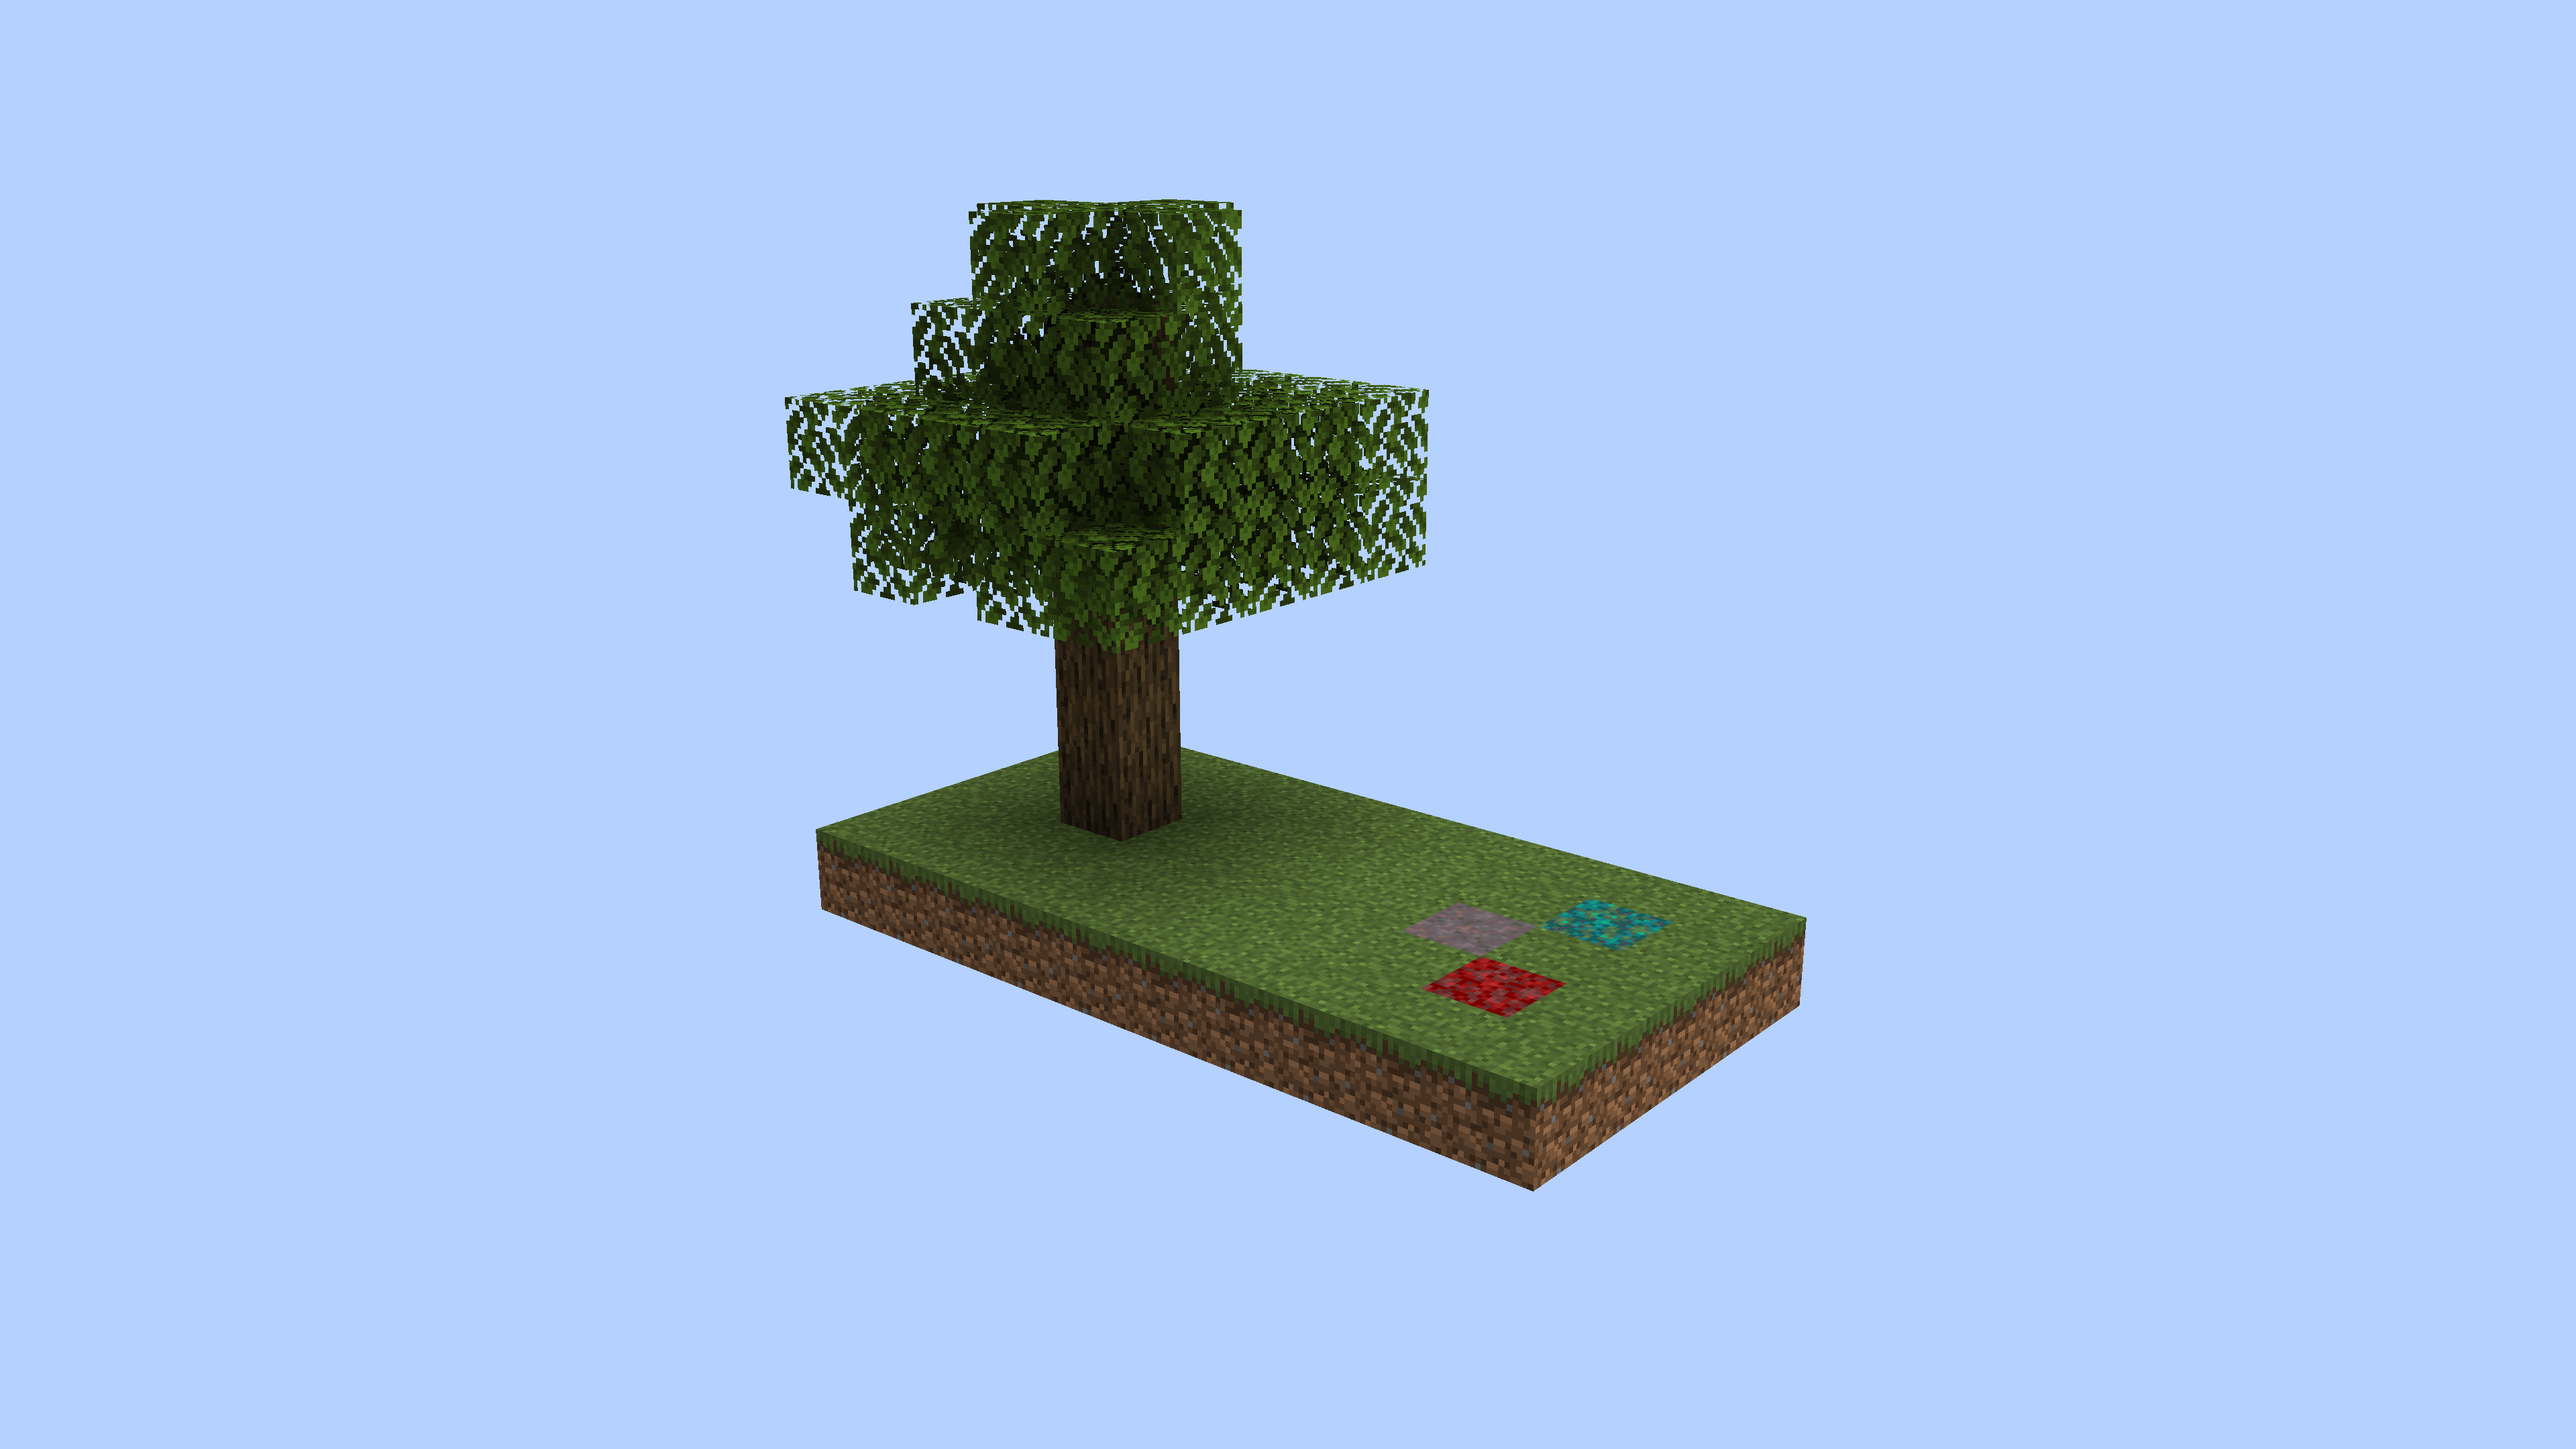
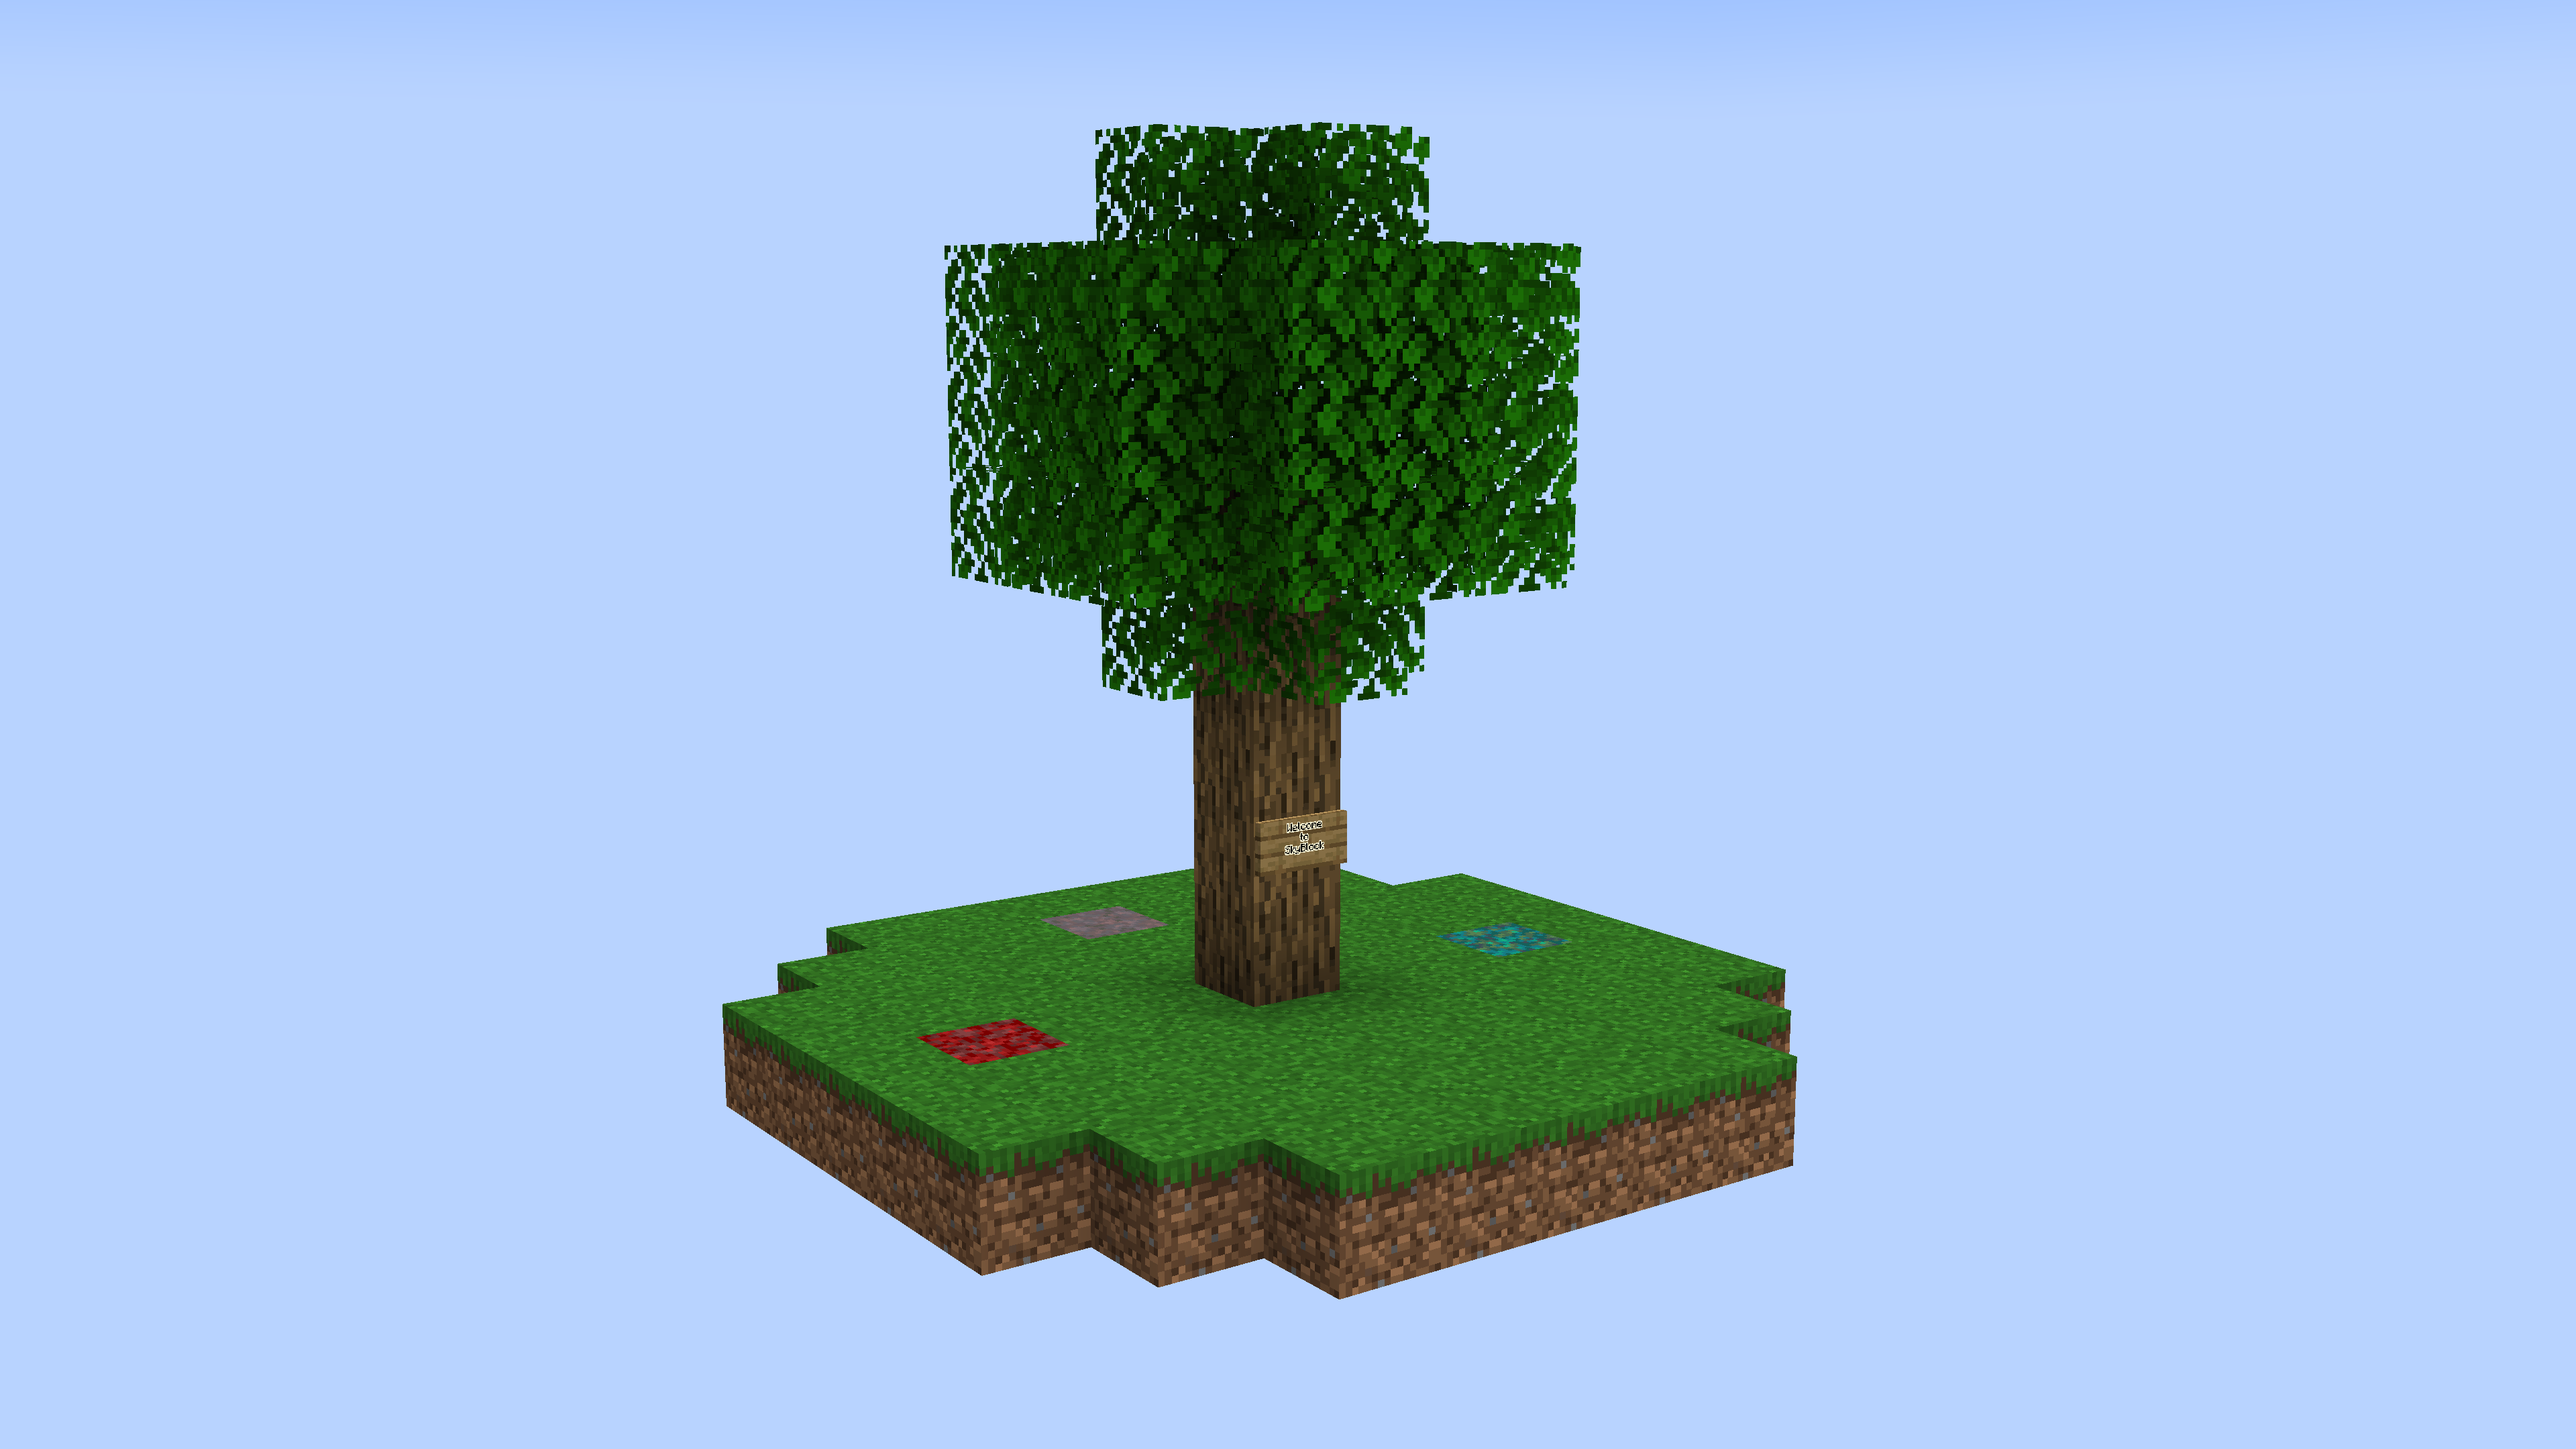
Change spawn platform shape and generation; Fix structure placement

Changed region(s): [[0.2812, 0.062, 0.7188, 0.8995]]

diff --git a/src/main/java/com/jsorrell/skyblock/gen/SkyBlockChunkGenerator.java b/src/main/java/com/jsorrell/skyblock/gen/SkyBlockChunkGenerator.java
@@ -6,10 +6,6 @@ import com.mojang.serialization.Codec;
 import com.mojang.serialization.codecs.RecordCodecBuilder;
 import it.unimi.dsi.fastutil.ints.IntArraySet;
 import it.unimi.dsi.fastutil.objects.ObjectArraySet;
-import net.minecraft.block.Block;
-import net.minecraft.block.BlockState;
-import net.minecraft.block.Blocks;
-import net.minecraft.block.LeavesBlock;
 import net.minecraft.structure.PoolStructurePiece;
 import net.minecraft.structure.StructurePiece;
 import net.minecraft.structure.StructurePieceType;
@@ -27,7 +23,9 @@ import net.minecraft.util.math.noise.DoublePerlinNoiseSampler;
 import net.minecraft.util.registry.Registry;
 import net.minecraft.util.registry.RegistryEntry;
 import net.minecraft.util.registry.RegistryEntryList;
-import net.minecraft.world.*;
+import net.minecraft.world.ChunkRegion;
+import net.minecraft.world.HeightLimitView;
+import net.minecraft.world.StructureWorldAccess;
 import net.minecraft.world.biome.Biome;
 import net.minecraft.world.biome.source.BiomeAccess;
 import net.minecraft.world.biome.source.BiomeSource;
@@ -106,28 +104,6 @@ public class SkyBlockChunkGenerator extends NoiseChunkGenerator {
 
   @Override
   public void buildSurface(ChunkRegion region, StructureAccessor structures, Chunk chunk) {
-    if (region.getDimension().isNatural()) {
-      BlockPos spawn =
-        new BlockPos(
-          region.getLevelProperties().getSpawnX(),
-          region.getLevelProperties().getSpawnY(),
-          region.getLevelProperties().getSpawnZ());
-      if (chunk.getPos().getStartX() <= spawn.getX()
-        && spawn.getX() <= chunk.getPos().getEndX()
-        && chunk.getPos().getStartZ() <= spawn.getZ()
-        && spawn.getZ() <= chunk.getPos().getEndZ()) {
-        generateSpawnPlatform(
-          region,
-          spawn,
-          new BlockBox(
-            chunk.getPos().getStartX(),
-            chunk.getBottomY(),
-            chunk.getPos().getStartZ(),
-            chunk.getPos().getStartX() + 15,
-            chunk.getTopY(),
-            chunk.getPos().getStartZ() + 15));
-      }
-    }
   }
 
   @Override
@@ -270,62 +246,5 @@ public class SkyBlockChunkGenerator extends NoiseChunkGenerator {
 
   @Override
   public void populateEntities(ChunkRegion region) {
-  }
-
-  protected static void placeBlock(
-    WorldAccess world,
-    BlockState block,
-    BlockPos referencePos,
-    int x,
-    int y,
-    int z,
-    BlockBox box) {
-    BlockPos blockPos =
-      new BlockPos(referencePos.getX() + x, referencePos.getY() + y, referencePos.getZ() + z);
-    if (box.contains(blockPos)) {
-      world.setBlockState(blockPos, block, Block.NOTIFY_LISTENERS);
-    }
-  }
-
-  protected static void fillBlocks(
-    WorldAccess world,
-    BlockState block,
-    BlockPos referencePos,
-    int startX,
-    int startY,
-    int startZ,
-    int endX,
-    int endY,
-    int endZ,
-    BlockBox box) {
-    for (int x = startX; x <= endX; x++) {
-      for (int y = startY; y <= endY; y++) {
-        for (int z = startZ; z <= endZ; z++) {
-          placeBlock(world, block, referencePos, x, y, z, box);
-        }
-      }
-    }
-  }
-
-  protected static void generateSpawnPlatform(
-    ServerWorldAccess world, BlockPos spawnpoint, BlockBox bounds) {
-    BlockState leavesBlockState = Blocks.OAK_LEAVES.getDefaultState().with(LeavesBlock.DISTANCE, 1);
-    fillBlocks(
-      world, Blocks.GRASS_BLOCK.getDefaultState(), spawnpoint, -2, -1, -7, 2, -1, 2, bounds);
-    placeBlock(world, Blocks.MYCELIUM.getDefaultState(), spawnpoint, 0, -1, 0, bounds);
-    placeBlock(
-      world, Blocks.CRIMSON_NYLIUM.getDefaultState(), spawnpoint, -1, -1, 1, bounds);
-    placeBlock(
-      world, Blocks.WARPED_NYLIUM.getDefaultState(), spawnpoint, 1, -1, 1, bounds);
-    placeBlock(world, Blocks.DIRT.getDefaultState(), spawnpoint, 0, -1, -5, bounds);
-    fillBlocks(world, leavesBlockState, spawnpoint, -2, 3, -7, 2, 4, -3, bounds);
-    fillBlocks(world, leavesBlockState, spawnpoint, -1, 5, -5, 1, 6, -5, bounds);
-    fillBlocks(world, leavesBlockState, spawnpoint, 0, 5, -6, 0, 6, -4, bounds);
-    placeBlock(world, leavesBlockState, spawnpoint, -1, 5, -4, bounds);
-    placeBlock(world, leavesBlockState, spawnpoint, -1, 5, -6, bounds);
-    placeBlock(world, Blocks.AIR.getDefaultState(), spawnpoint, -2, 4, -3, bounds);
-    placeBlock(world, Blocks.AIR.getDefaultState(), spawnpoint, -2, 3, -7, bounds);
-    fillBlocks(
-      world, Blocks.OAK_LOG.getDefaultState(), spawnpoint, 0, 0, -5, 0, 5, -5, bounds);
   }
 }

diff --git a/src/main/java/com/jsorrell/skyblock/gen/SkyBlockStructures.java b/src/main/java/com/jsorrell/skyblock/gen/SkyBlockStructures.java
@@ -7,14 +7,19 @@ import net.minecraft.block.EndPortalFrameBlock;
 import net.minecraft.block.entity.BlockEntity;
 import net.minecraft.block.entity.MobSpawnerBlockEntity;
 import net.minecraft.entity.EntityType;
+import net.minecraft.structure.Structure;
 import net.minecraft.structure.StructurePiece;
+import net.minecraft.structure.StructurePlacementData;
 import net.minecraft.util.BlockMirror;
 import net.minecraft.util.BlockRotation;
+import net.minecraft.util.Identifier;
 import net.minecraft.util.math.BlockBox;
 import net.minecraft.util.math.BlockPos;
 import net.minecraft.util.math.Direction;
 import net.minecraft.world.ServerWorldAccess;
 
+import javax.annotation.Nullable;
+import java.util.Objects;
 import java.util.Random;
 
 public class SkyBlockStructures {
@@ -25,8 +30,11 @@ public class SkyBlockStructures {
     protected BlockRotation rotation;
     protected BlockMirror mirror;
 
-    public SkyBlockStructure(Direction orientation, BlockBox boundingBox) {
+    public SkyBlockStructure(@Nullable Direction orientation, BlockBox boundingBox) {
       this.facing = orientation;
+      if (this.facing == null) {
+        this.facing = Direction.SOUTH;
+      }
       this.boundingBox = boundingBox;
       if (orientation == null) {
         this.rotation = BlockRotation.NONE;
@@ -62,9 +70,6 @@ public class SkyBlockStructures {
     }
 
     protected int applyXTransform(int x, int z) {
-      if (this.facing == null) {
-        return x;
-      }
       switch (this.facing) {
         case NORTH, SOUTH -> {
           return this.boundingBox.getMinX() + x;
@@ -80,16 +85,10 @@ public class SkyBlockStructures {
     }
 
     protected int applyYTransform(int y) {
-      if (this.facing == null) {
-        return y;
-      }
       return y + this.boundingBox.getMinY();
     }
 
     protected int applyZTransform(int x, int z) {
-      if (this.facing == null) {
-        return z;
-      }
       switch (this.facing) {
         case NORTH -> {
           return this.boundingBox.getMaxZ() - z;
@@ -213,13 +212,21 @@ public class SkyBlockStructures {
 
   public static class SilverfishSpawnerStructure extends SpawnerStructure {
     public SilverfishSpawnerStructure(StructurePiece piece) {
-      super(piece, new BlockPos(5, 3, 5), EntityType.SILVERFISH);
+      super(piece, new BlockPos(5, 3, 6), EntityType.SILVERFISH);
     }
   }
 
   public static class MagmaCubeSpawner extends SpawnerStructure {
     public MagmaCubeSpawner(StructurePiece piece) {
       super(piece, new BlockPos(11, 7, 19), EntityType.MAGMA_CUBE);
+    }
+  }
+
+  public record SpawnPlatform(BlockPos worldSpawn) {
+    public void generate(ServerWorldAccess world, Random random) {
+      Structure structure = Objects.requireNonNull(world.getServer()).getStructureManager().getStructure(new Identifier("skyblock", "spawn_platform")).orElseThrow();
+      BlockPos structureOrigin = worldSpawn.subtract(new BlockPos(4, 1, 1));
+      structure.place(world, structureOrigin, worldSpawn, new StructurePlacementData(), random, Block.NOTIFY_LISTENERS);
     }
   }
 }

diff --git a/src/main/java/com/jsorrell/skyblock/mixin/MinecraftServerMixin.java b/src/main/java/com/jsorrell/skyblock/mixin/MinecraftServerMixin.java
@@ -1,0 +1,35 @@
+package com.jsorrell.skyblock.mixin;
+
+import com.jsorrell.skyblock.gen.SkyBlockChunkGenerator;
+import com.jsorrell.skyblock.gen.SkyBlockStructures;
+import net.minecraft.server.MinecraftServer;
+import net.minecraft.server.world.ServerWorld;
+import net.minecraft.util.math.BlockPos;
+import net.minecraft.world.level.ServerWorldProperties;
+import org.objectweb.asm.Opcodes;
+import org.spongepowered.asm.mixin.Mixin;
+import org.spongepowered.asm.mixin.injection.At;
+import org.spongepowered.asm.mixin.injection.Inject;
+import org.spongepowered.asm.mixin.injection.callback.CallbackInfo;
+import org.spongepowered.asm.mixin.injection.callback.LocalCapture;
+
+@Mixin(MinecraftServer.class)
+public class MinecraftServerMixin {
+
+  @Inject(
+    method = "setupSpawn",
+    locals = LocalCapture.CAPTURE_FAILHARD,
+    at =
+    @At(
+      value = "JUMP",
+      opcode = Opcodes.IFEQ,
+      ordinal = 1,
+      shift = At.Shift.BEFORE))
+  private static void generateSpawnPlatform(ServerWorld world, ServerWorldProperties worldProperties, boolean bonusChest, boolean debugWorld, CallbackInfo ci) {
+    if (world.getChunkManager().getChunkGenerator() instanceof SkyBlockChunkGenerator) {
+      BlockPos worldSpawn = new BlockPos(worldProperties.getSpawnX(), worldProperties.getSpawnY(), worldProperties.getSpawnZ());
+      System.out.println(worldSpawn);
+      new SkyBlockStructures.SpawnPlatform(worldSpawn).generate(world, world.random);
+    }
+  }
+}
